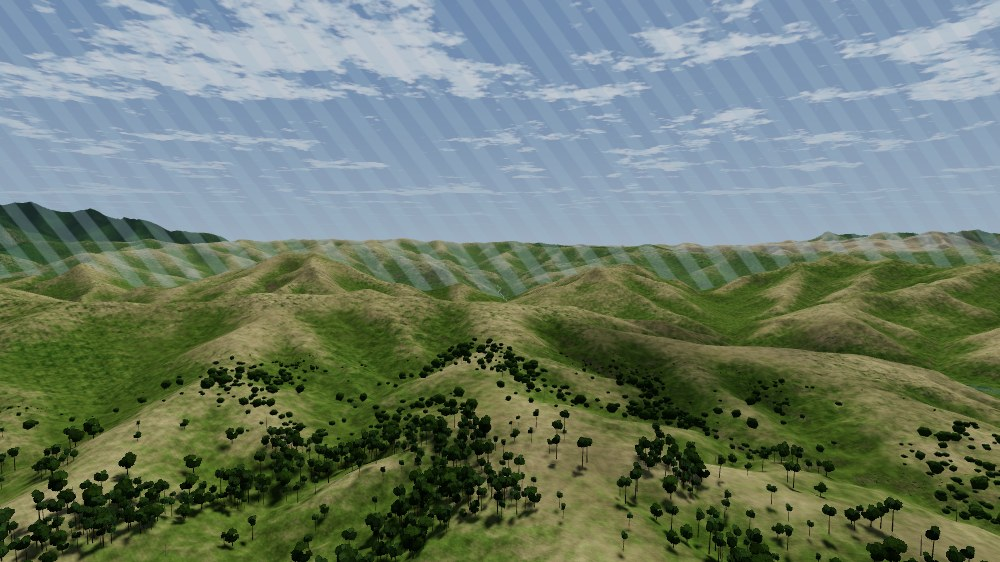
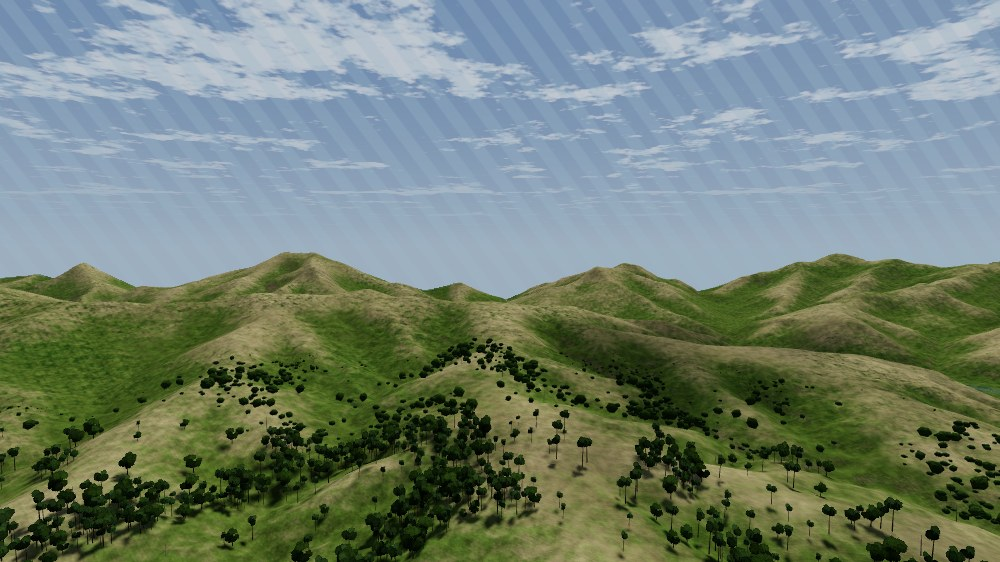
Leviathan: visible world ends 10 m beyond the border
Claude-Session: https://claude.ai/code/session_01Vet8ZrF4MRDwVE5LKU6WwE

Changed region(s): [[0.0, 0.363, 1.0, 0.5445]]

diff --git a/leviathan/client/materials.js b/leviathan/client/materials.js
@@ -4,7 +4,7 @@ import * as THREE from 'three';
 export const ATMO = /* glsl */`
 uniform vec3 uSunDir; uniform vec3 uSunCol; uniform vec3 uAmbSky; uniform vec3 uAmbGround;
 uniform vec3 uFogCol; uniform vec3 uFogSun; uniform vec3 uZenith; uniform float uFogA; uniform float uFogB;
-uniform vec3 uSplits; uniform float uTime;
+uniform vec3 uSplits; uniform float uTime; uniform vec2 uPlay;   // uPlay: min and max coordinate of the playable square
 vec3 S(vec3 c) { return pow(c, vec3(2.2)); }
 vec3 skyColor(vec3 rd) {
   float y = max(rd.y, 0.0);
@@ -112,8 +112,8 @@ vec3 noTileN(sampler2D t, vec2 uv, float k) {
 }
 vec3 strataColor(int rk) { return rk == 3 ? S(vec3(0.66, 0.58, 0.46)) : rockColor(rk); }   // cream cap and ledge-forming beds
 void main() {
-  float outDist = max(max(-vWPos.x, vWPos.x - uWorldSize), max(-vWPos.z, vWPos.z - uWorldSize));
-  if (outDist > 8000.0) discard;
+  // the visible world ends 10 m beyond the playable border
+  if (max(max(uPlay.x - vWPos.x, vWPos.x - uPlay.y), max(uPlay.x - vWPos.z, vWPos.z - uPlay.y)) > 10.0) discard;
   vec2 uv = clamp(vWPos.xz / uWorldSize, 0.0005, 0.9995);
   float dist = distance(vWPos, cameraPosition);
   vec4 n3 = (texture2D(uNoise, vWPos.xz / 790.0 + 0.37) + texture2D(uNoise, TILE_R * vWPos.xz / 1130.0 + 0.11) - 1.0) * 0.72 + 0.5;
@@ -273,7 +273,7 @@ ${ATMO}
 void main() {
   float dep = vDepth;
   if (dep < -0.02) discard;
-  if (max(max(-vWPos.x, vWPos.x - uWorldSize), max(-vWPos.z, vWPos.z - uWorldSize)) > 8000.0) discard;
+  if (max(max(uPlay.x - vWPos.x, vWPos.x - uPlay.y), max(uPlay.x - vWPos.z, vWPos.z - uPlay.y)) > 10.0) discard;
   float dist = distance(vWPos, cameraPosition);
   vec2 p = vWPos.xz;
   #ifdef RIVER
@@ -348,7 +348,7 @@ export function makeShared() {
     uSunDir: { value: new THREE.Vector3(0.3, 0.8, 0.5).normalize() }, uSunCol: { value: new THREE.Color(3, 3, 3) },
     uAmbSky: { value: new THREE.Color(0.4, 0.5, 0.7) }, uAmbGround: { value: new THREE.Color(0.2, 0.18, 0.15) },
     uFogCol: { value: new THREE.Color(0.6, 0.7, 0.85) }, uFogSun: { value: new THREE.Color(1, 0.9, 0.7) }, uZenith: { value: new THREE.Color(0.15, 0.3, 0.65) },
-    uFogA: { value: 0.55e-5 }, uFogB: { value: 1 / 1700 }, uSplits: { value: new THREE.Vector3(100, 500, 3000) }, uTime: { value: 0 }, uCloud: { value: 0.42 }, uWorldSize: { value: 50000 },
+    uFogA: { value: 0.55e-5 }, uFogB: { value: 1 / 1700 }, uSplits: { value: new THREE.Vector3(100, 500, 3000) }, uTime: { value: 0 }, uCloud: { value: 0.42 }, uWorldSize: { value: 50000 }, uPlay: { value: new THREE.Vector2(0, 50000) },
   };
 }
 

diff --git a/leviathan/client/terrain.js b/leviathan/client/terrain.js
@@ -29,7 +29,8 @@ function makeIndex() {
 
 export class Terrain {
   constructor({ scene, data, makeTerrainMaterial, waterMaterial, maxLevel = 11, workers = 3, onWorkerMessage }) {
-    this.scene = scene; this.S = data.meta.sizeM; this.maxLevel = maxLevel;
+    this.scene = scene; this.S = data.meta.sizeM;
+    { const pl = data.meta.play || { x0: 0, size: this.S }; this.p0 = pl.x0; this.p1 = pl.x0 + pl.size; } this.maxLevel = maxLevel;
     this.makeMat = makeTerrainMaterial; this.waterMat = waterMaterial;
     this.index = makeIndex();
     this.mats = new Map();
@@ -71,7 +72,7 @@ export class Terrain {
   }
   _select(n, p, req) {
     n.lastUsed = this.frame;
-    if (n.outer && Math.max(-(n.x0 + n.size), n.x0 - this.S, -(n.z0 + n.size), n.z0 - this.S) > EXT) return;
+    if (n.x0 > this.p1 + 10 || n.x0 + n.size < this.p0 - 10 || n.z0 > this.p1 + 10 || n.z0 + n.size < this.p0 - 10) return;   // beyond the border: not drawn
     const maxL = n.outer ? Math.min(8, this.maxLevel) : this.maxLevel;
     if (n.level < maxL && this._dist(n, p) < SPLIT_K * n.size) {
       if (!n.children) {

diff --git a/leviathan/client/vegetation.js b/leviathan/client/vegetation.js
@@ -268,6 +268,7 @@ ${ATMO}
 ${SHADOW_FRAG}
 void main() {
   vec3 alb; float trans = 0.0;
+  if (max(max(uPlay.x - vWPos.x, vWPos.x - uPlay.y), max(uPlay.x - vWPos.z, vWPos.z - uPlay.y)) > 10.0) discard;
   float dist = distance(vWPos, cameraPosition);
   vec3 N = normalize(vN);
   if (vCol.b > 0.75) {
@@ -376,6 +377,8 @@ export class Vegetation {
     if (pos.distanceTo(this.lastPos) < 6 && !this.dirty) return;
     this.lastPos.copy(pos); this.dirty = false;
     const want = this._want(pos); this.want = want;
+    const pl = this.world.play, q0 = pl.x0, q1 = pl.x0 + pl.size;
+    for (const [key, w] of want) if (w.x0 > q1 || w.x0 + w.size < q0 || w.z0 > q1 || w.z0 + w.size < q0) want.delete(key);
     for (const [key, w] of want) if (!this.tiles.has(key)) {
       this.tiles.set(key, { ...w, state: 1, meshes: [] }); this.pending++;
       this.terrain.extraQueue.push({ type: 'veg', key, x0: w.x0, z0: w.z0, size: w.size, lod: w.lod, kind: w.kind });

diff --git a/leviathan/client/main.js b/leviathan/client/main.js
@@ -62,7 +62,7 @@ tex.shadowData = new Uint8Array(tex.hgridRes * tex.hgridRes).fill(255);
 tex.shadow = new THREE.DataTexture(tex.shadowData, tex.hgridRes, tex.hgridRes, THREE.RedFormat, THREE.UnsignedByteType);
 tex.shadow.magFilter = tex.shadow.minFilter = THREE.LinearFilter; tex.shadow.needsUpdate = true;
 const shared = makeShared();
-shared.uWorldSize.value = S;
+shared.uWorldSize.value = S; shared.uPlay.value.set(P0, P1);
 const opts = { worldSize: S, uTreeDist: { value: quality.treeDist }, uSnowLine: { value: num('snow', 2450) } };
 shared.uCloud.value = num('cloud', 0.42);
 const mats = makeMaterials(shared, tex, opts);
